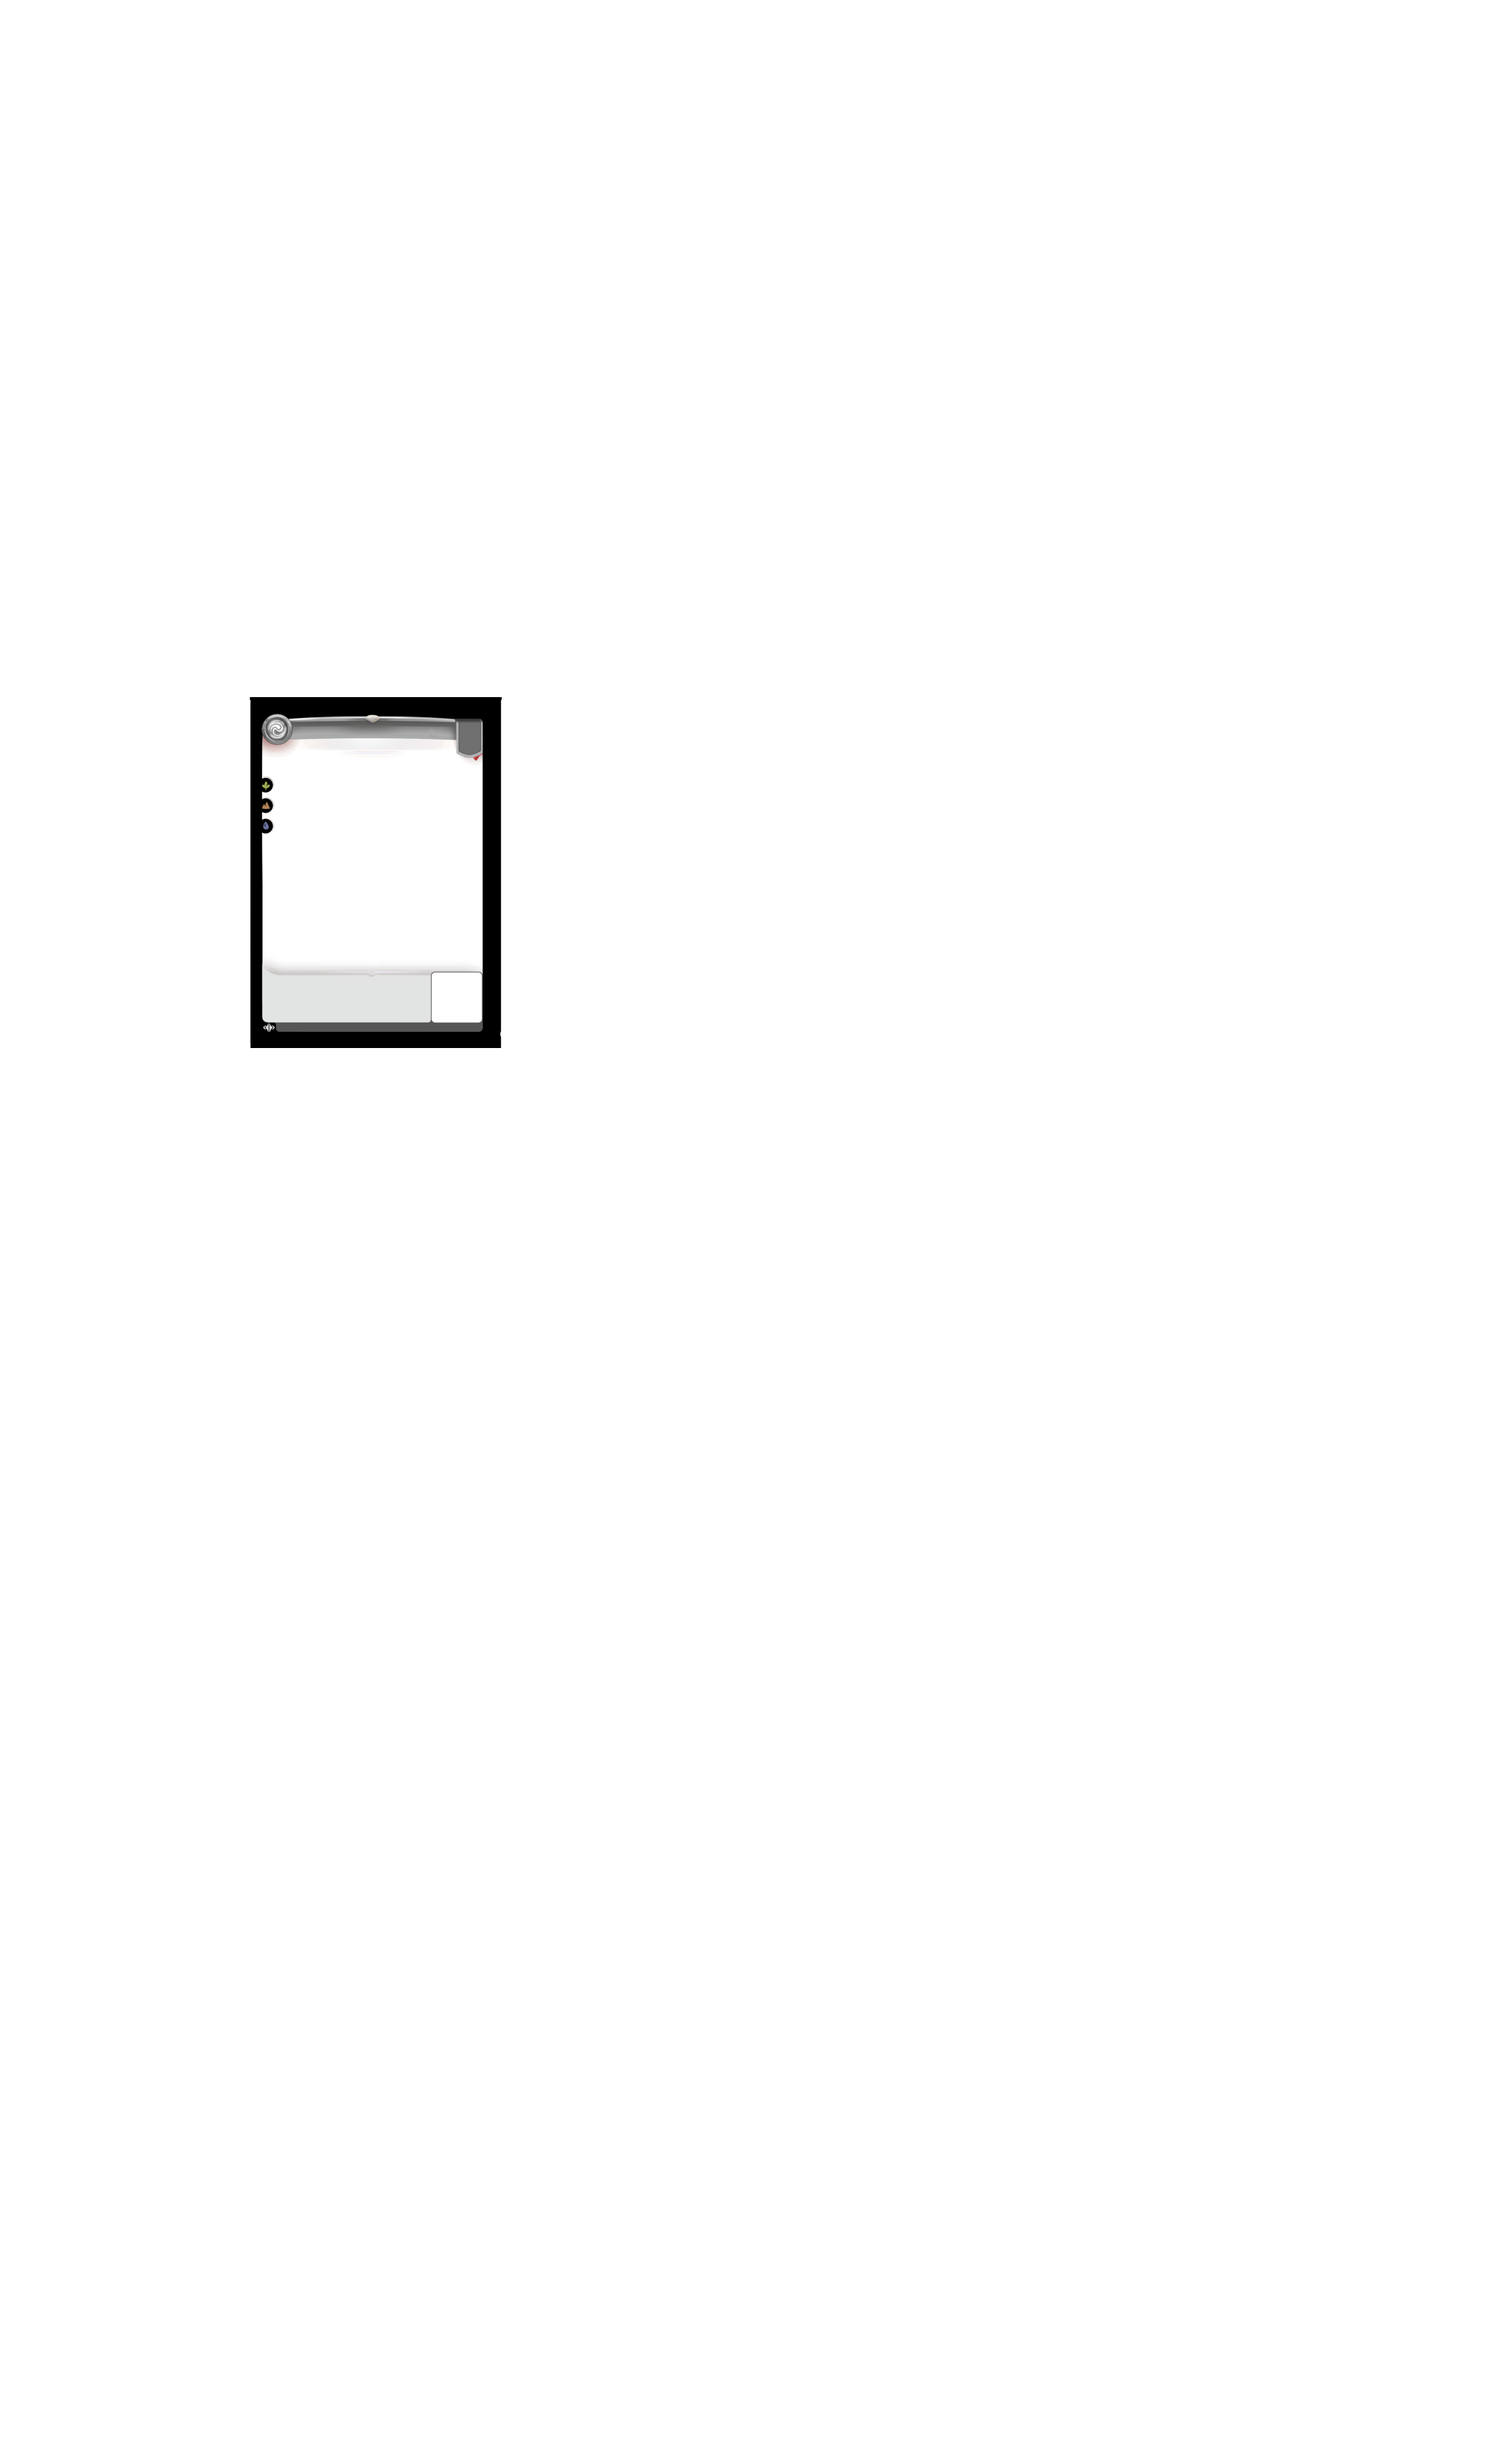
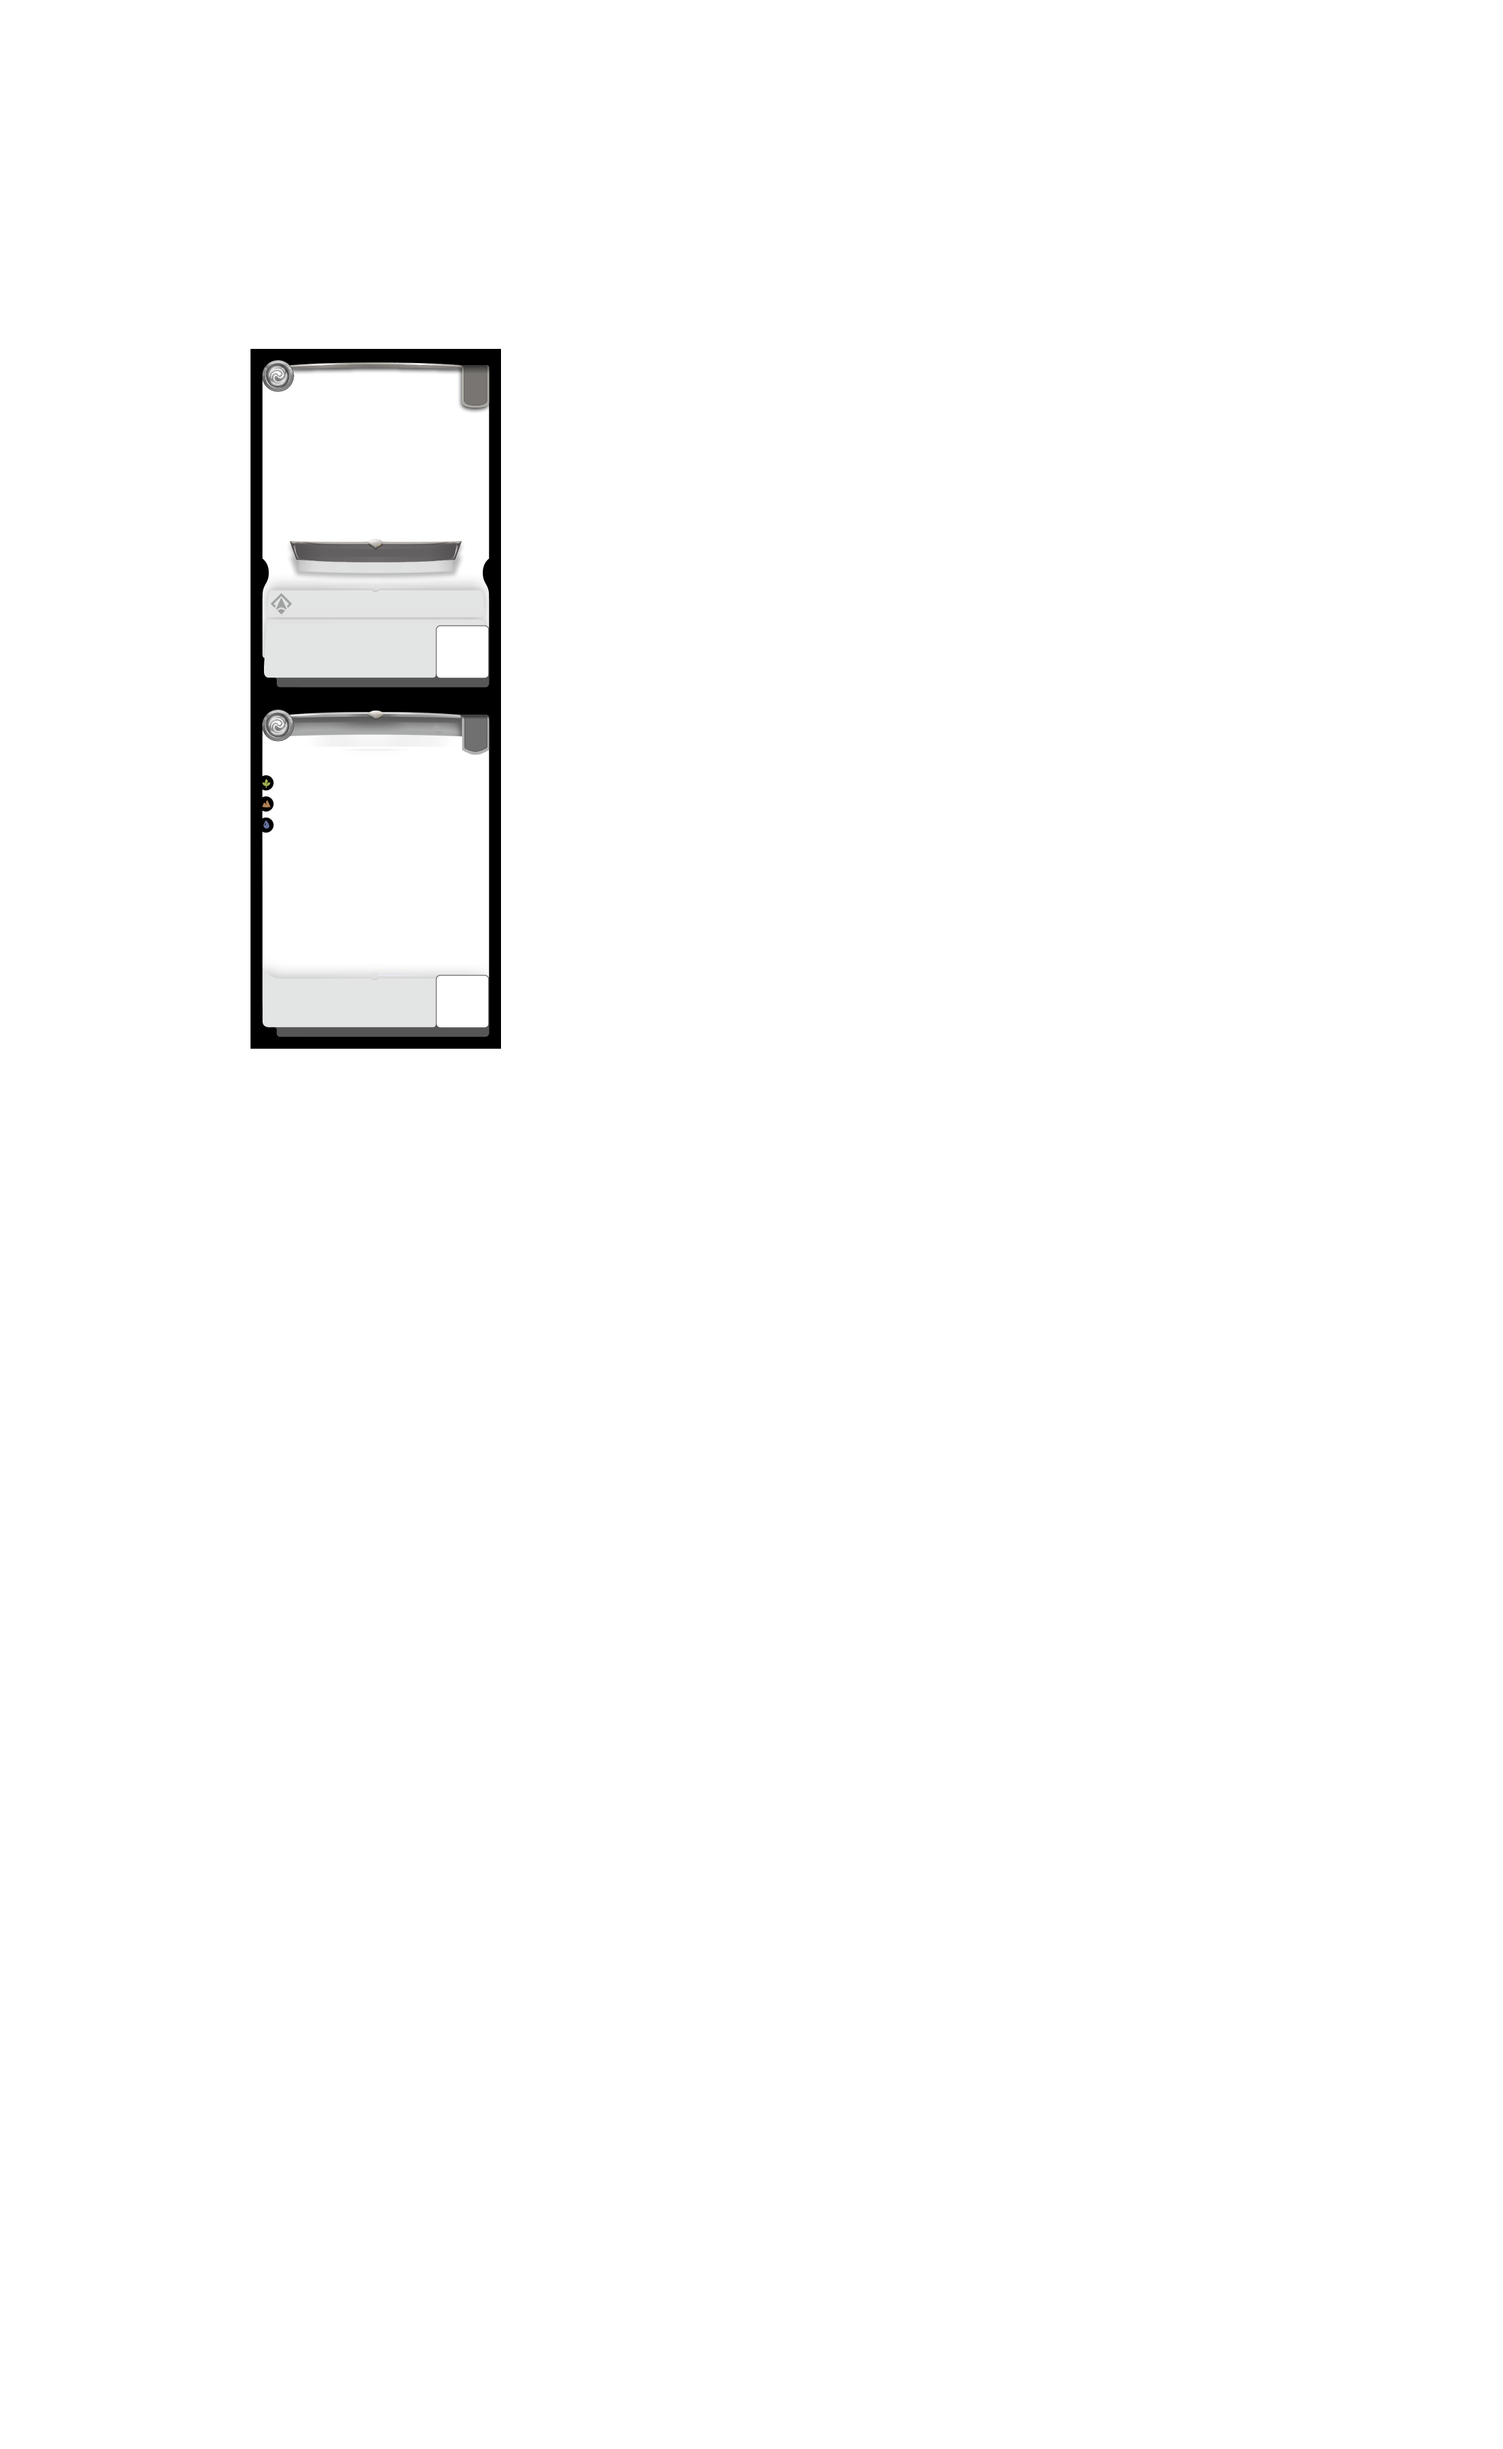
Fix display Aerolith

Changed region(s): [[0.1546, 0.1243, 0.3401, 0.4351]]

diff --git a/modules/css/cards.scss b/modules/css/cards.scss
@@ -537,6 +537,7 @@
                 }
             }
         }
+
         .card-frame[data-type="gear"] {
             &[data-support="0"][data-size="1"] ~ {
                 .card-name {
@@ -896,6 +897,24 @@
         }
         .card-frame[data-support="1"][data-size="2"] ~ .card-subpermanent {
             top: 245px;
+        }
+
+        // Management of NE permanent
+        .card-frame[data-type="permanent"][data-faction="NE"] {
+            &[data-support="0"][data-size="2"] ~ {
+                .card-name {
+                    top: 250px;
+                }
+                .card-typeline {
+                    top: 270px;
+                }
+                .card-subpermanent{
+                    top: 314px;
+                }
+                .card-text {
+                    top: 350px;
+                }
+            }
         }
 
         .card-footer {

diff --git a/altered.css b/altered.css
@@ -6650,6 +6650,18 @@ html {
 .altered-card .altered-card-wrapper .card-frame[data-support="1"][data-size="2"] ~ .card-subpermanent {
   top: 245px;
 }
+.altered-card .altered-card-wrapper .card-frame[data-type=permanent][data-faction=NE][data-support="0"][data-size="2"] ~ .card-name {
+  top: 250px;
+}
+.altered-card .altered-card-wrapper .card-frame[data-type=permanent][data-faction=NE][data-support="0"][data-size="2"] ~ .card-typeline {
+  top: 270px;
+}
+.altered-card .altered-card-wrapper .card-frame[data-type=permanent][data-faction=NE][data-support="0"][data-size="2"] ~ .card-subpermanent {
+  top: 314px;
+}
+.altered-card .altered-card-wrapper .card-frame[data-type=permanent][data-faction=NE][data-support="0"][data-size="2"] ~ .card-text {
+  top: 350px;
+}
 .altered-card .altered-card-wrapper .card-footer {
   position: absolute;
   bottom: 16px;

diff --git a/modules/js/Cards.js b/modules/js/Cards.js
@@ -1719,7 +1719,7 @@ define(['dojo', 'dojo/_base/declare', g_gamethemeurl + 'modules/js/cardsData.js'
         <div class='altered-card-wrapper' data-asset='${p.asset.replace('_R1', '_R')}'>
           <div class='card-frame' data-size='${i.frameSize}' data-faction='${p.faction}' 
               data-rarity='${p.rarity}' data-support='${p.supportDesc ? 1 : 0}' data-type='${
-        isLandmark ? (p.hasOwnProperty('token') ? 'token' : 'permanent') : 'gear'
+        isLandmark ? (p.hasOwnProperty('token') ? 'permanent' : 'permanent') : 'gear'
       }'></div>
           `;
       if (!p.hasOwnProperty('token')) {

diff --git a/modules/php/Cards/NE/NE_Common_Aerolith.php b/modules/php/Cards/NE/NE_Common_Aerolith.php
@@ -21,7 +21,7 @@ class NE_Common_Aerolith extends \ALT\Models\Card
       'flavorText'  => clienttranslate('With aerolith, gravity no longer constrains how we build.'),
       'artist' => "Jean-Baptiste Andrier",
       'extension' => 'SO',
-      'subtypes'  => [ORE],
+      'subtypes'  => [ORE, LANDMARK],
       'effectDesc' => clienttranslate('When I\'m sacrificed — <RESUPPLY>. (Put the top card of your deck in Reserve. Excess Landmarks are sacrificed at the end of the Day.)  {T}, {1} : Sacrifice me.'),
       'token' => true,
       // 'sacrificeResupply' => true,
